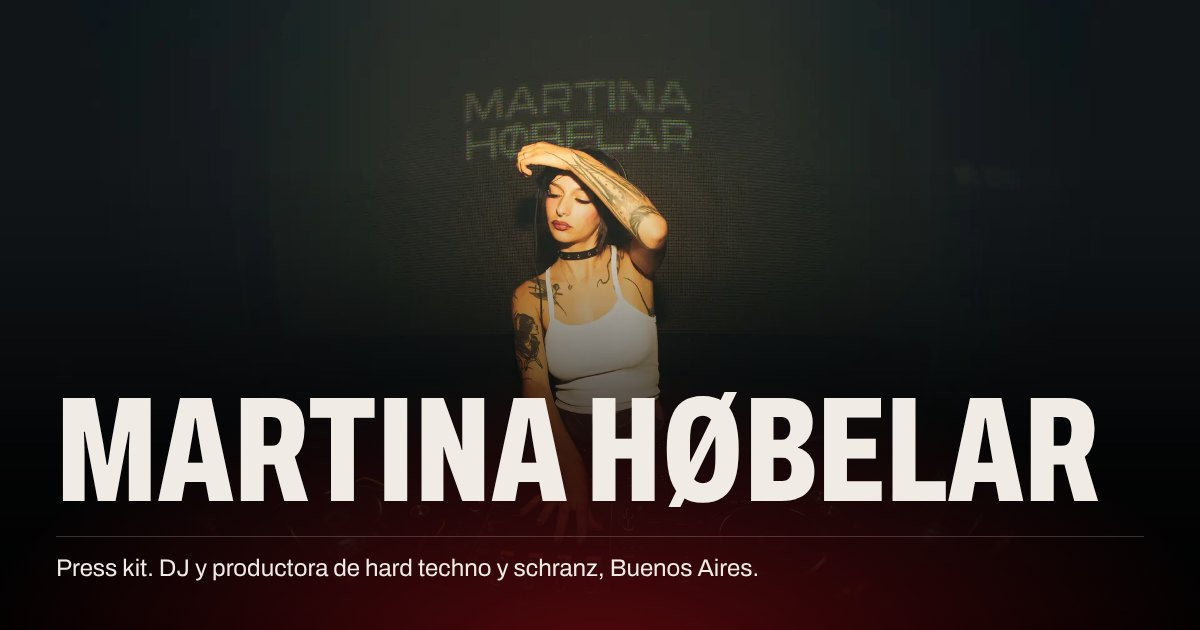
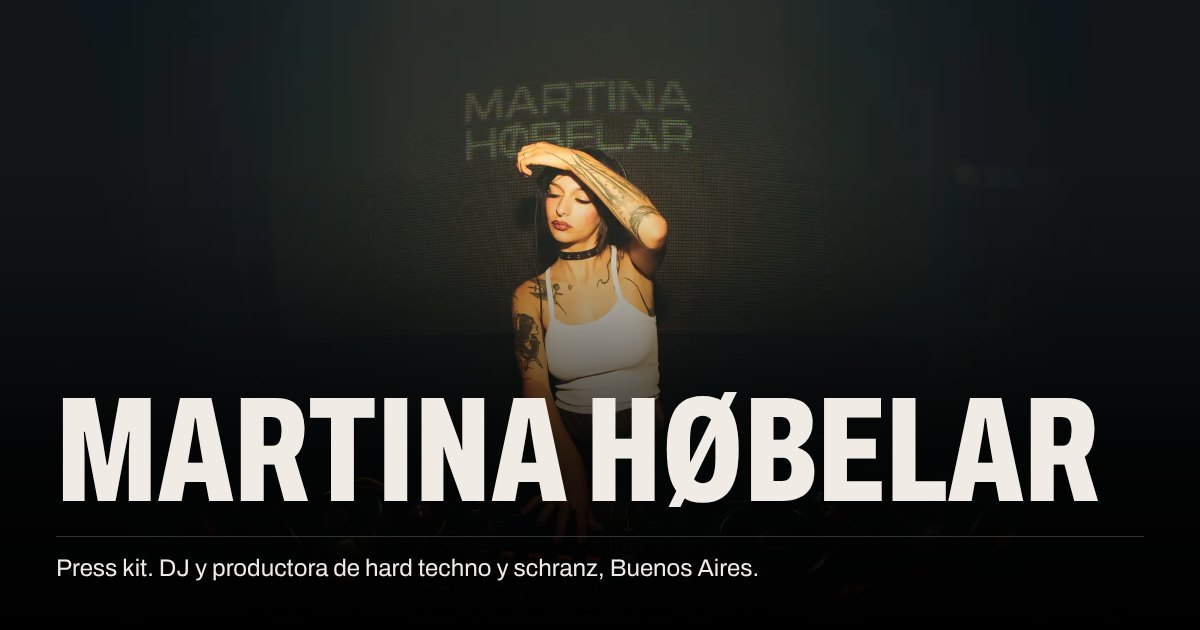
fix: saca el pulso del inicio y la foto con auriculares
- El inicio queda quieto: sin la luz roja ni el latido de la foto.
  El led del set elegido sigue titilando a sus BPM.
- Sale la foto con auriculares y luz roja; la grilla se reacomoda sin
  huecos (de a una y de a dos en el celular).
- La vista previa para compartir va sin el resplandor rojo, como el
  inicio.

Changed region(s): [[0.1542, 0.7238, 0.8633, 1.0]]

diff --git a/index.html b/index.html
@@ -24,19 +24,19 @@
   <meta property="og:url" content="https://martinahobelar-presskit.vercel.app/" />
   <meta property="og:title" content="Martina Høbelar — Press kit" />
   <meta property="og:description" content="DJ y productora de hard techno y schranz. Sets, bio, fotos, rider y booking." />
-  <meta property="og:image" content="https://martinahobelar-presskit.vercel.app/img/og.jpg?v=2" />
+  <meta property="og:image" content="https://martinahobelar-presskit.vercel.app/img/og.jpg?v=3" />
   <meta property="og:image:width" content="1200" />
   <meta property="og:image:height" content="630" />
   <meta name="twitter:card" content="summary_large_image" />
   <meta name="twitter:title" content="Martina Høbelar — Press kit" />
   <meta name="twitter:description" content="DJ y productora de hard techno y schranz. Sets, bio, fotos, rider y booking." />
-  <meta name="twitter:image" content="https://martinahobelar-presskit.vercel.app/img/og.jpg?v=2" />
+  <meta name="twitter:image" content="https://martinahobelar-presskit.vercel.app/img/og.jpg?v=3" />
 
   <!-- Una sola tipografía (Archivo variable), servida desde el sitio -->
   <link rel="preload" href="fonts/archivo-latin.woff2" as="font" type="font/woff2" crossorigin />
   <link rel="preload" as="image" imagesrcset="img/hero-1.webp 1920w, img/hero-1-2880.webp 2880w" imagesizes="100vw" media="(min-width: 700px)" fetchpriority="high" />
   <link rel="preload" as="image" href="img/hero-1-m.webp" media="(max-width: 699px)" fetchpriority="high" />
-  <link rel="stylesheet" href="style.css?v=5" />
+  <link rel="stylesheet" href="style.css?v=6" />
 
   <script type="application/ld+json">
   {
@@ -46,7 +46,7 @@
     "alternateName": "Martina Hobelar",
     "description": "DJ y productora argentina de hard techno y schranz. Co-founder de Sangre Club.",
     "url": "https://martinahobelar-presskit.vercel.app/",
-    "image": "https://martinahobelar-presskit.vercel.app/img/og.jpg?v=2",
+    "image": "https://martinahobelar-presskit.vercel.app/img/og.jpg?v=3",
     "genre": ["Hard techno", "Schranz", "Neorave", "Hard groove"],
     "foundingLocation": { "@type": "Place", "name": "Buenos Aires, Argentina" },
     "sameAs": [
@@ -94,10 +94,9 @@
     <section class="hero" id="inicio" aria-label="Martina Høbelar">
       <picture class="hero__photo">
         <source media="(max-width: 699px)" srcset="img/hero-1-m.webp" />
-        <img id="heroImg" src="img/hero-1.webp" srcset="img/hero-1.webp 1920w, img/hero-1-2880.webp 2880w" sizes="100vw" alt="" width="1920" height="1281" fetchpriority="high" />
+        <img src="img/hero-1.webp" srcset="img/hero-1.webp 1920w, img/hero-1-2880.webp 2880w" sizes="100vw" alt="" width="1920" height="1281" fetchpriority="high" />
       </picture>
       <div class="hero__shade" aria-hidden="true"></div>
-      <div class="hero__light" aria-hidden="true"></div>
 
       <div class="hero__content">
         <h1 class="hero__name">
@@ -244,15 +243,14 @@
       <div class="wrap">
         <ul class="grid" id="grid">
           <li class="g-01"><button class="ph" type="button" data-full="img/fotos/01-1800.webp" data-jpg="img/fotos/01.jpg"><img src="img/fotos/01-720.webp" srcset="img/fotos/01-720.webp 720w, img/fotos/01-1800.webp 1800w" sizes="(max-width: 699px) calc(100vw - 40px), min(52vw, 760px)" alt="Martina Høbelar en la cabina, con su nombre proyectado detrás" width="720" height="480" loading="lazy" decoding="async" /></button></li>
-          <li class="g-05"><button class="ph" type="button" data-full="img/fotos/05-1800.webp" data-jpg="img/fotos/05.jpg"><img src="img/fotos/05-720.webp" srcset="img/fotos/05-720.webp 720w, img/fotos/05-1800.webp 1076w" sizes="(max-width: 699px) calc(50vw - 26px), min(21vw, 310px)" alt="Martina con auriculares en la cabina, con luz roja" width="720" height="903" loading="lazy" decoding="async" /></button></li>
-          <li class="g-02"><button class="ph" type="button" data-full="img/fotos/02-1800.webp" data-jpg="img/fotos/02.jpg"><img src="img/fotos/02-720.webp" srcset="img/fotos/02-720.webp 720w, img/fotos/02-1800.webp 1365w" sizes="(max-width: 699px) calc(50vw - 26px), min(29vw, 420px)" alt="Martina en la cabina de Sangre Club, bajo la gráfica del club" width="720" height="1080" loading="lazy" decoding="async" /></button></li>
+          <li class="g-02"><button class="ph" type="button" data-full="img/fotos/02-1800.webp" data-jpg="img/fotos/02.jpg"><img src="img/fotos/02-720.webp" srcset="img/fotos/02-720.webp 720w, img/fotos/02-1800.webp 1365w" sizes="(max-width: 699px) calc(50vw - 26px), min(21vw, 310px)" alt="Martina en la cabina de Sangre Club, bajo la gráfica del club" width="720" height="1080" loading="lazy" decoding="async" /></button></li>
+          <li class="g-12"><button class="ph" type="button" data-full="img/fotos/12-1800.webp" data-jpg="img/fotos/12.jpg"><img src="img/fotos/12-720.webp" srcset="img/fotos/12-720.webp 720w, img/fotos/12-1800.webp 1365w" sizes="(max-width: 699px) calc(50vw - 26px), min(29vw, 420px)" alt="Martina con el brazo en alto en la cabina de Sangre Club" width="720" height="1080" loading="lazy" decoding="async" /></button></li>
           <li class="g-10"><button class="ph" type="button" data-full="img/fotos/10-1800.webp" data-jpg="img/fotos/10.jpg"><img src="img/fotos/10-720.webp" srcset="img/fotos/10-720.webp 720w, img/fotos/10-1800.webp 1800w" sizes="(max-width: 699px) calc(100vw - 40px), min(45vw, 645px)" alt="Martina mezclando en primer plano, con luz roja" width="720" height="480" loading="lazy" decoding="async" /></button></li>
           <li class="g-04"><button class="ph" type="button" data-full="img/fotos/04-1800.webp?v=2" data-jpg="img/fotos/04.jpg?v=2"><img src="img/fotos/04-720.webp?v=2" srcset="img/fotos/04-720.webp?v=2 720w, img/fotos/04-1800.webp?v=2 1365w" sizes="(max-width: 699px) calc(50vw - 26px), min(29vw, 420px)" alt="Retrato de estudio de Martina de pie, con top de cuero y botas" width="720" height="1080" loading="lazy" decoding="async" /></button></li>
           <li class="g-11"><button class="ph" type="button" data-full="img/fotos/11-1800.webp" data-jpg="img/fotos/11.jpg"><img src="img/fotos/11-720.webp" srcset="img/fotos/11-720.webp 720w, img/fotos/11-1800.webp 1365w" sizes="(max-width: 699px) calc(50vw - 26px), min(29vw, 420px)" alt="Retrato de estudio de Martina, de espaldas, con los tatuajes a la vista" width="720" height="1080" loading="lazy" decoding="async" /></button></li>
           <li class="g-07"><button class="ph" type="button" data-full="img/fotos/07-1800.webp?v=2" data-jpg="img/fotos/07.jpg?v=2"><img src="img/fotos/07-720.webp?v=2" srcset="img/fotos/07-720.webp?v=2 720w, img/fotos/07-1800.webp?v=2 1800w" sizes="(max-width: 699px) calc(100vw - 40px), min(29vw, 420px)" alt="Retrato de estudio de Martina en blanco y negro, con vestido de látex y un radiograbador" width="720" height="1080" loading="lazy" decoding="async" /></button></li>
           <li class="g-09"><button class="ph" type="button" data-full="img/fotos/09-1800.webp" data-jpg="img/fotos/09.jpg"><img src="img/fotos/09-720.webp" srcset="img/fotos/09-720.webp 720w, img/fotos/09-1800.webp 1652w" sizes="(max-width: 699px) calc(50vw - 26px), min(37vw, 535px)" alt="Martina de espaldas frente a un salón lleno" width="720" height="906" loading="lazy" decoding="async" /></button></li>
-          <li class="g-12"><button class="ph" type="button" data-full="img/fotos/12-1800.webp" data-jpg="img/fotos/12.jpg"><img src="img/fotos/12-720.webp" srcset="img/fotos/12-720.webp 720w, img/fotos/12-1800.webp 1365w" sizes="(max-width: 699px) calc(50vw - 26px), min(21vw, 310px)" alt="Martina con el brazo en alto en la cabina de Sangre Club" width="720" height="1080" loading="lazy" decoding="async" /></button></li>
-          <li class="g-08"><button class="ph" type="button" data-full="img/fotos/08-1800.webp" data-jpg="img/fotos/08.jpg"><img src="img/fotos/08-720.webp" srcset="img/fotos/08-720.webp 720w, img/fotos/08-1800.webp 1365w" sizes="(max-width: 699px) calc(100vw - 40px), min(21vw, 310px)" alt="La pista de Sangre Club llena, con luz roja" width="720" height="1080" loading="lazy" decoding="async" /></button></li>
+          <li class="g-08"><button class="ph" type="button" data-full="img/fotos/08-1800.webp" data-jpg="img/fotos/08.jpg"><img src="img/fotos/08-720.webp" srcset="img/fotos/08-720.webp 720w, img/fotos/08-1800.webp 1365w" sizes="(max-width: 699px) calc(50vw - 26px), min(29vw, 420px)" alt="La pista de Sangre Club llena, con luz roja" width="720" height="1080" loading="lazy" decoding="async" /></button></li>
         </ul>
       </div>
     </section>
@@ -344,6 +342,6 @@
     </div>
   </dialog>
 
-  <script src="script.js?v=5" defer></script>
+  <script src="script.js?v=6" defer></script>
 </body>
 </html>

diff --git a/style.css b/style.css
@@ -2,8 +2,8 @@
    Martina Høbelar — press kit
 
    La sala a oscuras. El rojo de su presskit 2025 aparece en sus
-   fotos, en la luz que late con sus BPM y en un led chico que
-   marca lo que está activo, como los de una cabina.
+   fotos y en un led chico que marca lo que está activo, como los
+   de una cabina.
    Una sola familia, Archivo variable: extra condensada y en
    mayúsculas para el nombre y los títulos, normal para leer.
    ========================================================== */
@@ -388,16 +388,6 @@ button { font-family: inherit; }
     linear-gradient(0deg, #000 0%, rgba(0, 0, 0, 0.84) 24%, rgba(0, 0, 0, 0.2) 54%, rgba(0, 0, 0, 0) 70%);
 }
 
-/* La luz roja que sube del piso con cada golpe */
-.hero__light {
-  position: absolute;
-  inset: 0;
-  z-index: -1;
-  pointer-events: none;
-  opacity: 0;
-  mix-blend-mode: screen;
-  background: radial-gradient(70% 60% at 50% 104%, rgba(200, 16, 26, 0.95), rgba(200, 16, 26, 0.35) 45%, rgba(200, 16, 26, 0) 75%);
-}
 
 .hero__content {
   width: 100%;
@@ -437,21 +427,11 @@ button { font-family: inherit; }
   margin: 0;
 }
 
-/* Ocho golpes al entrar, a los BPM del primer set, y quieto */
-@keyframes golpe-luz {
-  from { opacity: 0.85; }
-  to { opacity: 0; }
-}
+/* El led del set elegido titila ocho veces a sus BPM, y queda quieto */
 @keyframes golpe-led {
   from { opacity: 1; box-shadow: 0 0 12px 4px rgba(200, 16, 26, 0.9); }
   to { opacity: 0.3; box-shadow: 0 0 0 0 rgba(200, 16, 26, 0); }
 }
-@keyframes golpe-foto {
-  from { transform: scale(1.016); }
-  to { transform: scale(1); }
-}
-.hero.is-latiendo .hero__light { animation: golpe-luz calc(60s / var(--bpm)) var(--ataque) 8; }
-.hero.is-latiendo .hero__photo img { animation: golpe-foto calc(60s / var(--bpm)) var(--ataque) 8; }
 
 /* ----------------------------------------------------------
    Secciones
@@ -766,15 +746,14 @@ button { font-family: inherit; }
 
 /* Composición de editorial: cada foto con su ancho y su lugar */
 .g-01 { grid-column: 1 / 8; align-self: end; }
-.g-05 { grid-column: 9 / 12; }
-.g-02 { grid-column: 2 / 6; }
+.g-02 { grid-column: 9 / 12; }
+.g-12 { grid-column: 2 / 6; }
 .g-10 { grid-column: 7 / 13; align-self: center; }
 .g-04 { grid-column: 1 / 5; }
 .g-11 { grid-column: 5 / 9; margin-top: 12%; }
 .g-07 { grid-column: 9 / 13; }
 .g-09 { grid-column: 1 / 6; }
-.g-12 { grid-column: 7 / 10; align-self: center; }
-.g-08 { grid-column: 10 / 13; align-self: end; }
+.g-08 { grid-column: 8 / 12; align-self: center; }
 
 /* ----------------------------------------------------------
    Rider
@@ -1010,11 +989,10 @@ button { font-family: inherit; }
   /* de a una a todo el ancho, de a dos escalonadas */
   .grid > .g-01,
   .grid > .g-10,
-  .grid > .g-07,
-  .grid > .g-08 { grid-column: 1 / -1; }
-  .grid > .g-02,
+  .grid > .g-07 { grid-column: 1 / -1; }
+  .grid > .g-12,
   .grid > .g-11,
-  .grid > .g-12 { margin-top: 32%; }
+  .grid > .g-08 { margin-top: 32%; }
 
   .facts div,
   .signed div,

diff --git a/script.js b/script.js
@@ -117,17 +117,6 @@
     el.classList.add('is-latiendo');
   }
 
-  // Inicio: cuando la foto y la tipografía ya están, entra con ocho golpes
-  var hero = document.querySelector('.hero');
-  var heroImg = document.getElementById('heroImg');
-  if (hero && heroImg && !reduceMotion) {
-    var ready = [heroImg.decode ? heroImg.decode().catch(function () {}) : Promise.resolve()];
-    if (document.fonts && document.fonts.ready) ready.push(document.fonts.ready);
-    Promise.all(ready).then(function () {
-      setTimeout(function () { beat(hero); }, 350);
-    });
-  }
-
   /* ----------------------------------------------------------
      Sets: un reproductor y la lista; la miniatura se cambia por
      el video recién cuando alguien toca play

diff --git a/README.md b/README.md
@@ -6,7 +6,7 @@ Es una sola página estática: sin panel, sin funciones serverless y sin paso de
 
 ## Idea visual
 
-- **El pulso.** El rojo de su presskit 2025 aparece en sus fotos, en una luz que late a los BPM y en un led chico que marca lo activo (la sección en el menú, el set elegido), como los de una cabina. Al entrar, el inicio da ocho golpes a 157 BPM (el primer set) y queda quieto. Al elegir un set, el led de abajo del reproductor titila ocho veces a los BPM de ese set. Con movimiento reducido no late nada.
+- **El led.** El rojo de su presskit 2025 aparece en sus fotos y en un led chico que marca lo activo (la sección en el menú, el set elegido), como los de una cabina. Al elegir un set, el led de abajo del reproductor titila ocho veces a los BPM de ese set. Con movimiento reducido no titila. El inicio no tiene animación.
 - **Sin logo.** Martina pidió sacar la gota de sangre; la pestaña usa la Ø de su apellido.
 - **La tipografía.** Una sola familia, Archivo variable: extra condensada y en mayúsculas para el nombre y los títulos, normal para leer.
 - **El ritmo.** La sala a oscuras, la bio sobre el gris de estudio de su book (con sus dos fotos en zigzag), y las dos fotos que ella marcó como épicas a todo el ancho antes de la grilla.
@@ -35,7 +35,7 @@ sitemap.xml
 
 - **Textos:** directamente en `index.html`.
 - **Sets:** cada fila de la lista (`.track`) lleva el ID del video de YouTube en `data-id` y los BPM en `data-bpm` (el número que usa el latido). La primera es la que aparece cargada en el reproductor; si cambia, cambiar también la miniatura, `#nowName` y `#nowBpm`.
-- **Fotos:** cada foto tiene una miniatura `img/fotos/NN-720.webp`, una versión grande `NN-1800.webp` (la que abre el visor) y `NN.jpg` (la que se descarga). WebP debajo de ~300 KB. Las dos de arriba de la grilla usan `img/hero-2.webp` y `img/hero-3.webp`. El lugar de cada foto en la grilla sale de su clase (`g-01`, `g-05`…) en `style.css`, y su `sizes` en `index.html` acompaña ese ancho.
+- **Fotos:** cada foto tiene una miniatura `img/fotos/NN-720.webp`, una versión grande `NN-1800.webp` (la que abre el visor) y `NN.jpg` (la que se descarga). WebP debajo de ~300 KB. Las dos de arriba de la grilla usan `img/hero-2.webp` y `img/hero-3.webp`. El lugar de cada foto en la grilla sale de su clase (`g-01`, `g-02`…) en `style.css`, y su `sizes` en `index.html` acompaña ese ancho.
 - **Bio:** las dos fotos son `img/bio-a.webp` (de pie) y `img/bio-b.webp` (recostada, recortada a 5:4). Abren el visor y se descargan completas (`fotos/13` y `fotos/14`).
 - **Rider:** la cabina es `img/rider-cabina.webp`, sacada del diagrama del presskit de Kexxy y adaptada a su setup: CDJ, mixer, CDJ y CDJ, sin texto en la imagen. Los modelos van escritos en la lista de al lado.
 - **Imágenes y caché:** el navegador guarda las imágenes un día. Si reemplazás una manteniendo el nombre, sumale `?v=` con un número nuevo donde se usa en `index.html` (como la 04 y la 07).
@@ -66,4 +66,4 @@ El pie lleva “Sitio web hecho por Enzo Diaz Zingaretti” con enlace a https:/
 - **Bio:** es la que mandó; solo se corrigieron mayúsculas (Co-founder, Sangre Club, Groove Selections) y la puntuación del segundo párrafo. Es organizadora de Groove Selections.
 - **Rider:** la tercera CDJ no es opcional; “para cambios en el setup, consultar” queda.
 - **Booking:** revisó la sección y sumó el Instagram de bookings, @grooveselectionsbookings.
-- **Fotos:** la de látex con el radiograbador va en blanco y negro.
+- **Fotos:** la de látex con el radiograbador va en blanco y negro, y sale la de auriculares con luz roja.
